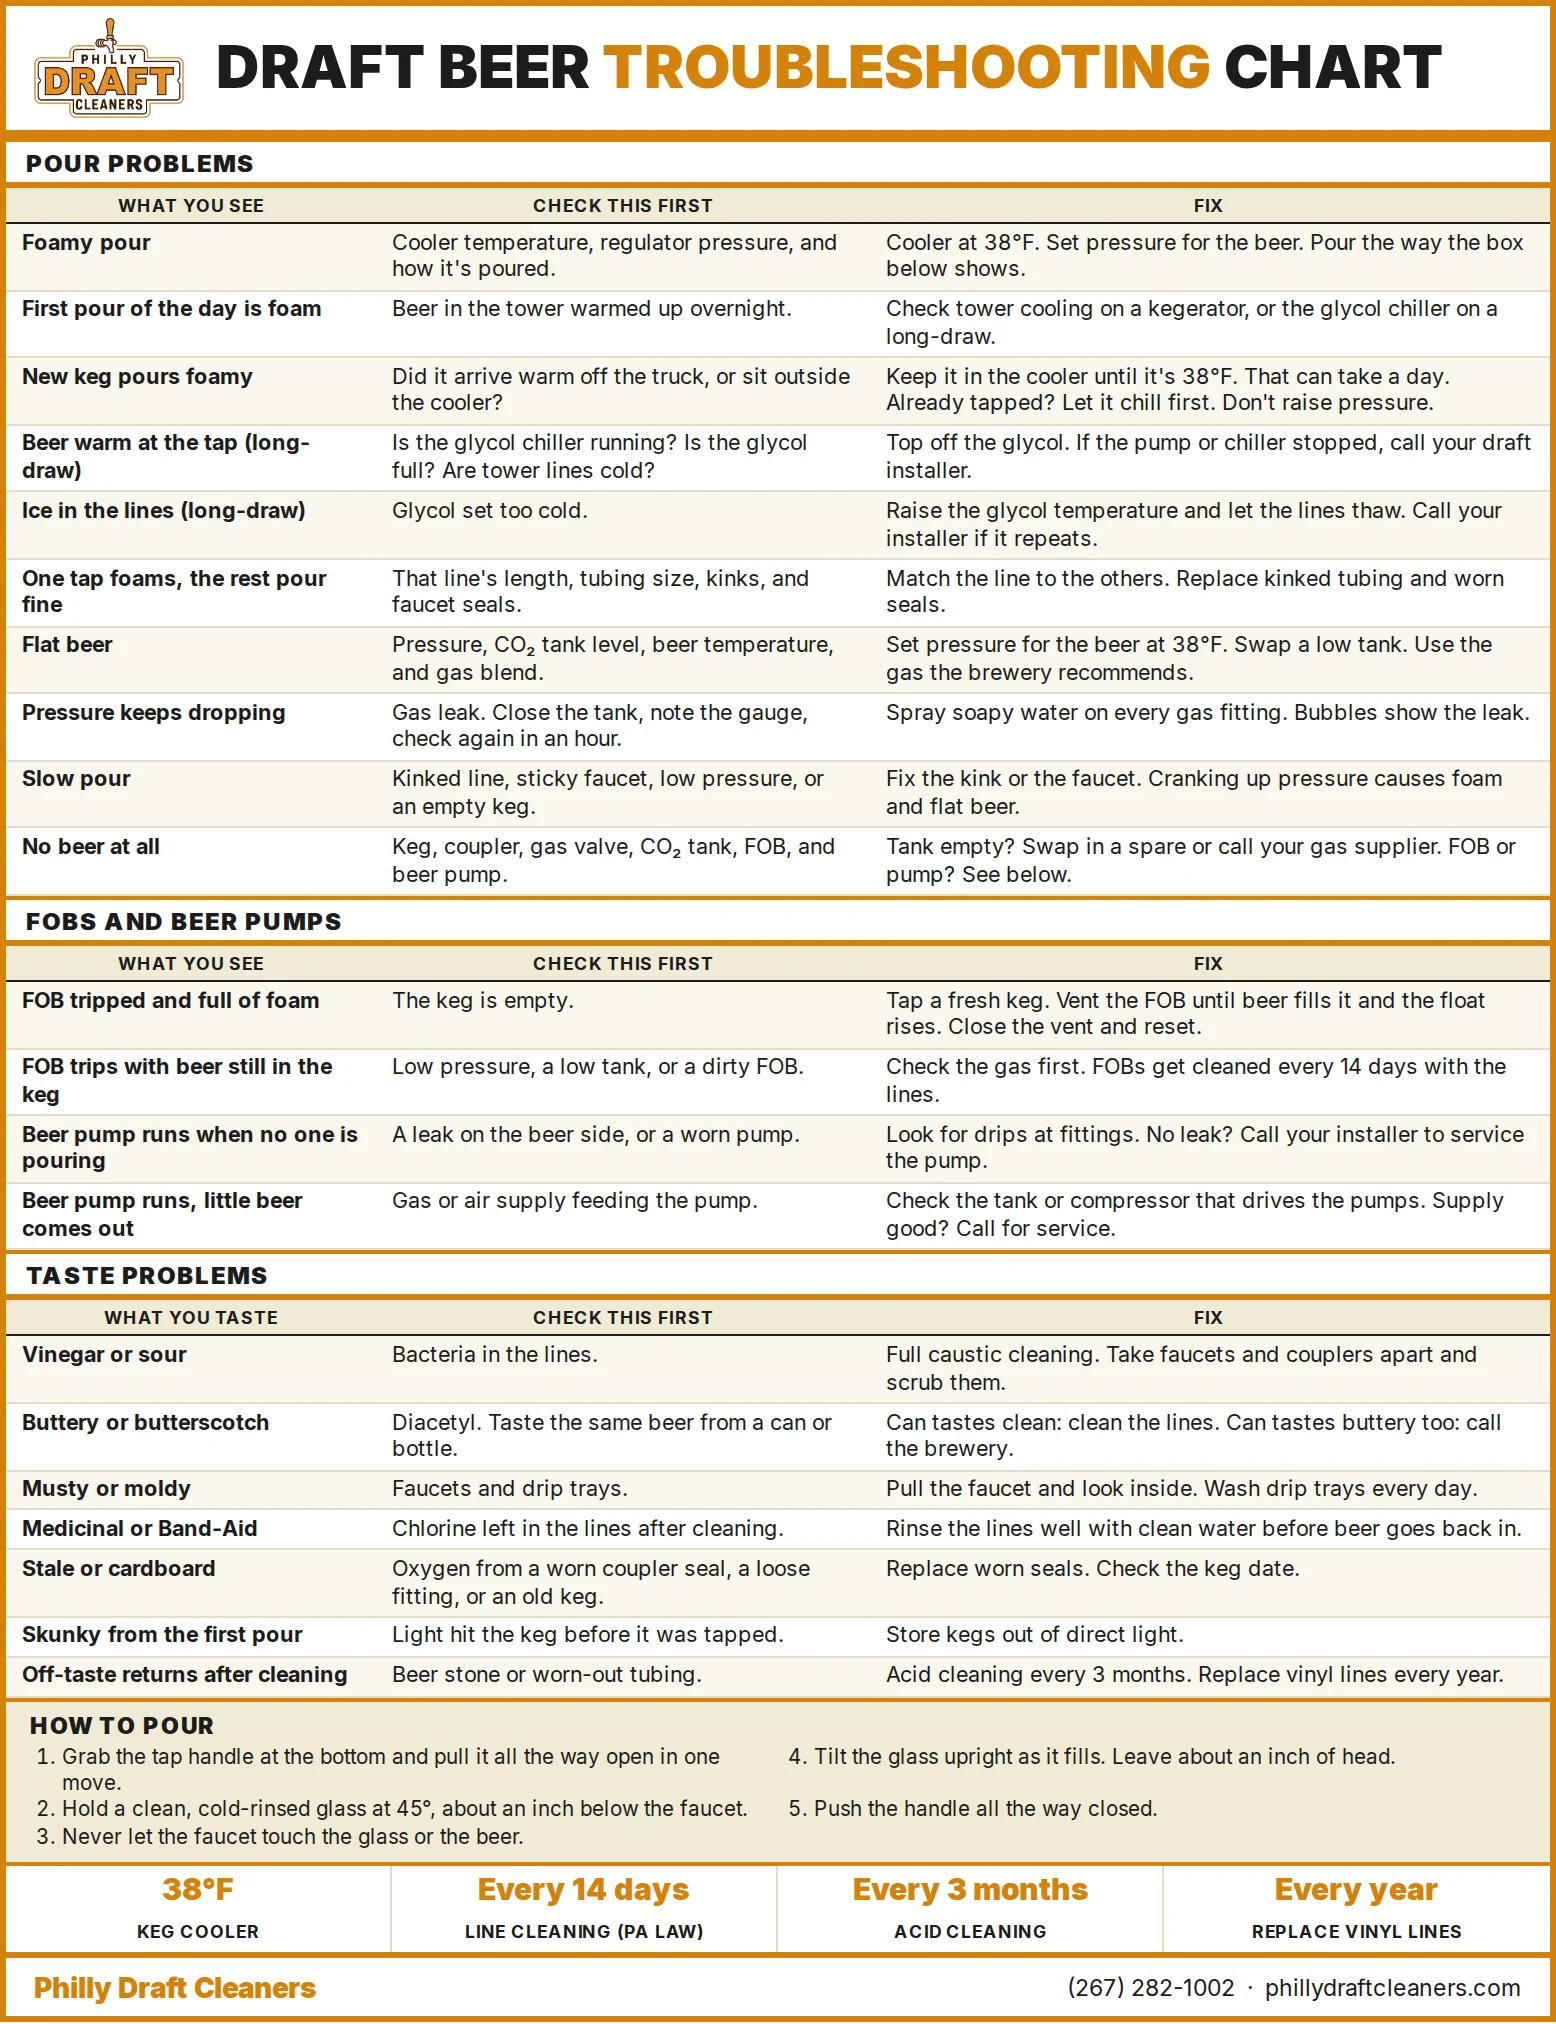
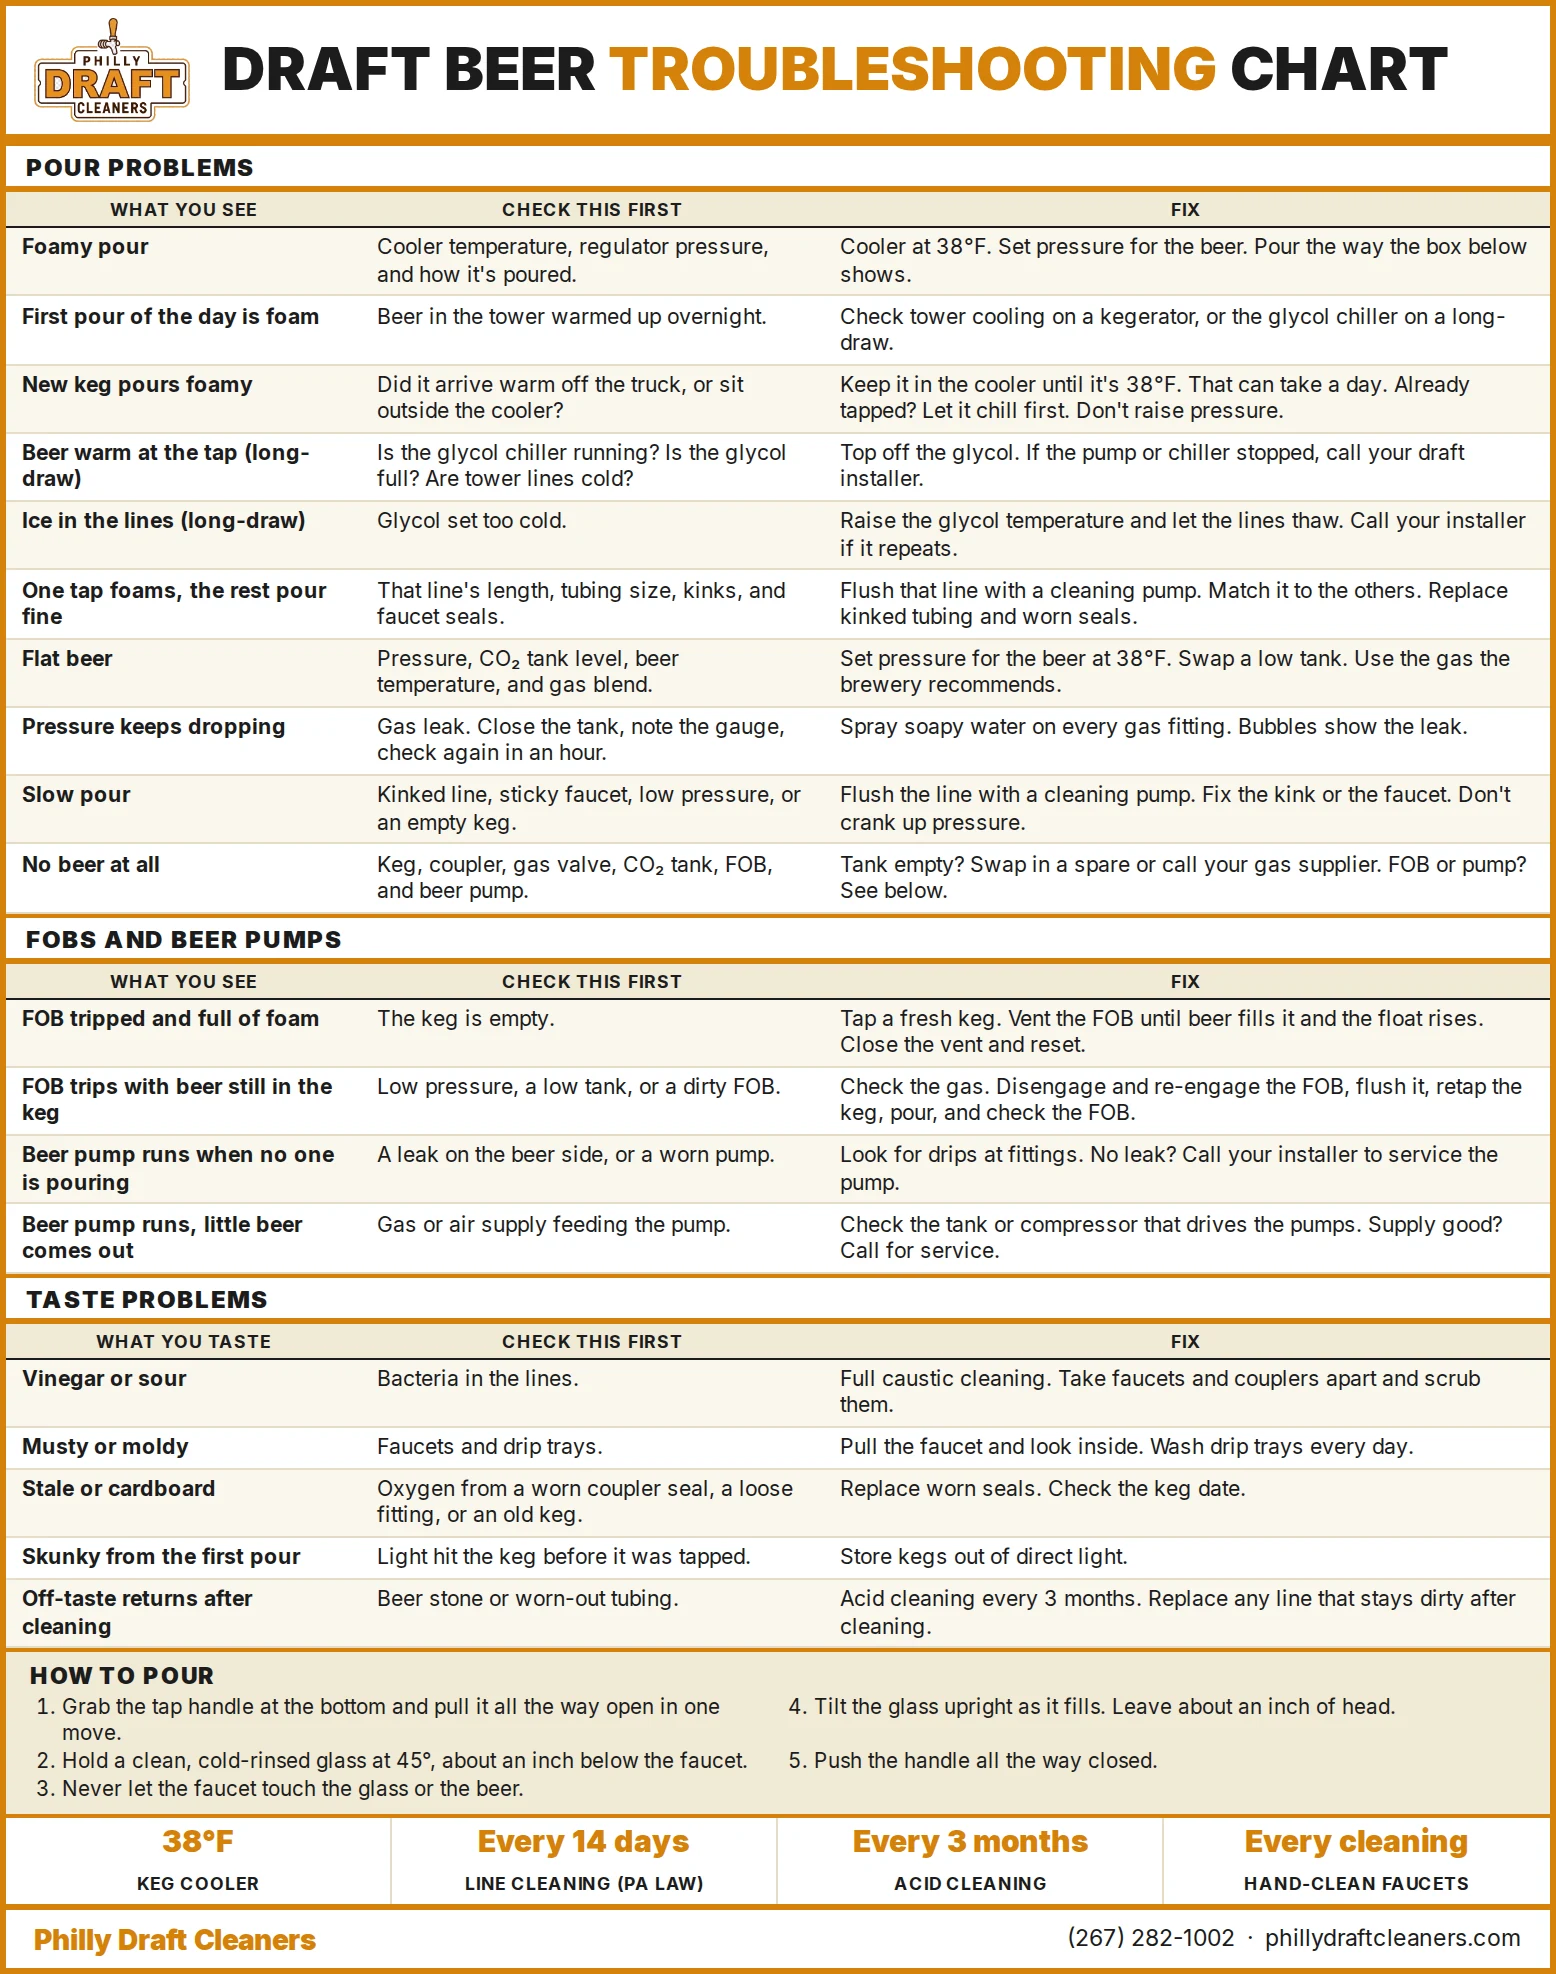
Chart fixes: line flushing, FOB reset, removed two taste rows

diff --git a/blog/draft-beer-troubleshooting-chart.html b/blog/draft-beer-troubleshooting-chart.html
@@ -14,7 +14,7 @@
 <meta property="og:site_name" content="Philly Draft Cleaners">
 <meta property="og:image" content="https://phillydraftcleaners.com/assets/images/draft-beer-troubleshooting-chart.webp">
 <meta property="og:image:width" content="1556">
-<meta property="og:image:height" content="2024">
+<meta property="og:image:height" content="1974">
 <meta property="article:published_time" content="2026-09-23">
 <meta property="article:modified_time" content="2026-09-23">
 <meta property="article:section" content="Beer Quality">
@@ -36,7 +36,7 @@
           "@type": "ImageObject",
           "url": "https://phillydraftcleaners.com/assets/images/draft-beer-troubleshooting-chart.webp",
           "width": 1556,
-          "height": 2024,
+          "height": 1974,
           "caption": "Draft beer troubleshooting chart by Philly Draft Cleaners"
         },
         "https://phillydraftcleaners.com/assets/images/og/blog-tower-16x9.jpg",
@@ -125,7 +125,7 @@
         "@type": "ImageObject",
         "url": "https://phillydraftcleaners.com/assets/images/draft-beer-troubleshooting-chart.webp",
         "width": 1556,
-        "height": 2024,
+        "height": 1974,
         "caption": "Draft beer troubleshooting chart by Philly Draft Cleaners"
       },
       "inLanguage": "en-US",
@@ -508,7 +508,7 @@
         <p><a href="https://phillydraftcleaners.com/assets/downloads/draft-beer-troubleshooting-chart.pdf" style="color:var(--amber);font-weight:600" download>Download the printable PDF</a> and hang it by your cooler or in the keg room. It prints on one letter-size page.</p>
 
         <figure style="margin:28px 0">
-          <a href="https://phillydraftcleaners.com/assets/images/draft-beer-troubleshooting-chart.webp"><img src="/assets/images/draft-beer-troubleshooting-chart.webp" alt="Draft beer troubleshooting chart listing pour problems like foamy, warm new kegs, flat, slow, warm or frozen glycol lines, and no beer, FOB and beer pump problems, taste problems like vinegar, buttery, musty, medicinal, stale, and skunky, with the cause to check and the fix for each, plus five steps for pouring a draft beer" width="1556" height="2024" style="width:100%;height:auto;border:1px solid var(--g2, #ddd)"></a>
+          <a href="https://phillydraftcleaners.com/assets/images/draft-beer-troubleshooting-chart.webp"><img src="/assets/images/draft-beer-troubleshooting-chart.webp" alt="Draft beer troubleshooting chart listing pour problems like foamy, warm new kegs, flat, slow, warm or frozen glycol lines, and no beer, FOB and beer pump problems, taste problems like vinegar, musty, stale, and skunky, with the cause to check and the fix for each, plus five steps for pouring a draft beer" width="1556" height="1974" style="width:100%;height:auto;border:1px solid var(--g2, #ddd)"></a>
           <figcaption style="font-size:14px;color:var(--g4);margin-top:8px">Draft beer troubleshooting chart by Philly Draft Cleaners. Tap the image to see it full size.</figcaption>
         </figure>
 
@@ -520,10 +520,10 @@
           <li><strong>New keg pours foamy.</strong> Check: Did it arrive warm off the truck, or sit outside the cooler? Fix: Keep it in the cooler until it&#x27;s 38°F. That can take a day. Already tapped? Let it chill first. Don&#x27;t raise pressure.</li>
           <li><strong>Beer warm at the tap (long-draw).</strong> Check: Is the glycol chiller running? Is the glycol full? Are tower lines cold? Fix: Top off the glycol. If the pump or chiller stopped, call your draft installer.</li>
           <li><strong>Ice in the lines (long-draw).</strong> Check: Glycol set too cold. Fix: Raise the glycol temperature and let the lines thaw. Call your installer if it repeats.</li>
-          <li><strong>One tap foams, the rest pour fine.</strong> Check: That line&#x27;s length, tubing size, kinks, and faucet seals. Fix: Match the line to the others. Replace kinked tubing and worn seals.</li>
+          <li><strong>One tap foams, the rest pour fine.</strong> Check: That line&#x27;s length, tubing size, kinks, and faucet seals. Fix: Flush that line with a cleaning pump. Match it to the others. Replace kinked tubing and worn seals.</li>
           <li><strong>Flat beer.</strong> Check: Pressure, CO₂ tank level, beer temperature, and gas blend. Fix: Set pressure for the beer at 38°F. Swap a low tank. Use the gas the brewery recommends.</li>
           <li><strong>Pressure keeps dropping.</strong> Check: Gas leak. Close the tank, note the gauge, check again in an hour. Fix: Spray soapy water on every gas fitting. Bubbles show the leak.</li>
-          <li><strong>Slow pour.</strong> Check: Kinked line, sticky faucet, low pressure, or an empty keg. Fix: Fix the kink or the faucet. Cranking up pressure causes foam and flat beer.</li>
+          <li><strong>Slow pour.</strong> Check: Kinked line, sticky faucet, low pressure, or an empty keg. Fix: Flush the line with a cleaning pump. Fix the kink or the faucet. Don&#x27;t crank up pressure.</li>
           <li><strong>No beer at all.</strong> Check: Keg, coupler, gas valve, CO₂ tank, FOB, and beer pump. Fix: Tank empty? Swap in a spare or call your gas supplier. FOB or pump? See below.</li>
         </ul>
 
@@ -533,7 +533,7 @@
 
         <ul>
           <li><strong>FOB tripped and full of foam.</strong> Check: The keg is empty. Fix: Tap a fresh keg. Vent the FOB until beer fills it and the float rises. Close the vent and reset.</li>
-          <li><strong>FOB trips with beer still in the keg.</strong> Check: Low pressure, a low tank, or a dirty FOB. Fix: Check the gas first. FOBs get cleaned every 14 days with the lines.</li>
+          <li><strong>FOB trips with beer still in the keg.</strong> Check: Low pressure, a low tank, or a dirty FOB. Fix: Check the gas. Disengage and re-engage the FOB, flush it, retap the keg, pour, and check the FOB.</li>
           <li><strong>Beer pump runs when no one is pouring.</strong> Check: A leak on the beer side, or a worn pump. Fix: Look for drips at fittings. No leak? Call your installer to service the pump.</li>
           <li><strong>Beer pump runs, little beer comes out.</strong> Check: Gas or air supply feeding the pump. Fix: Check the tank or compressor that drives the pumps. Supply good? Call for service.</li>
         </ul>
@@ -544,12 +544,10 @@
 
         <ul>
           <li><strong>Vinegar or sour.</strong> Check: Bacteria in the lines. Fix: Full caustic cleaning. Take faucets and couplers apart and scrub them.</li>
-          <li><strong>Buttery or butterscotch.</strong> Check: Diacetyl. Taste the same beer from a can or bottle. Fix: Can tastes clean: clean the lines. Can tastes buttery too: call the brewery.</li>
           <li><strong>Musty or moldy.</strong> Check: Faucets and drip trays. Fix: Pull the faucet and look inside. Wash drip trays every day.</li>
-          <li><strong>Medicinal or Band-Aid.</strong> Check: Chlorine left in the lines after cleaning. Fix: Rinse the lines well with clean water before beer goes back in.</li>
           <li><strong>Stale or cardboard.</strong> Check: Oxygen from a worn coupler seal, a loose fitting, or an old keg. Fix: Replace worn seals. Check the keg date.</li>
           <li><strong>Skunky from the first pour.</strong> Check: Light hit the keg before it was tapped. Fix: Store kegs out of direct light.</li>
-          <li><strong>Off-taste returns after cleaning.</strong> Check: Beer stone or worn-out tubing. Fix: Acid cleaning every 3 months. Replace vinyl lines every year.</li>
+          <li><strong>Off-taste returns after cleaning.</strong> Check: Beer stone or worn-out tubing. Fix: Acid cleaning every 3 months. Replace any line that stays dirty after cleaning.</li>
         </ul>
 
         <h2>How to Pour</h2>
@@ -570,7 +568,7 @@
           <li><strong>38°F</strong> for the keg cooler, per the <a href="https://www.brewersassociation.org/educational-publications/draught-beer-quality-manual/" target="_blank" rel="noopener">Brewers Association Draught Beer Quality Manual</a>.</li>
           <li><strong>Every 14 days</strong> for line cleaning. Pennsylvania requires it under <a href="https://www.pacodeandbulletin.gov/Display/pacode?file=/secure/pacode/data/040/chapter5/s5.51.html" target="_blank" rel="noopener">40 Pa. Code § 5.51</a>.</li>
           <li><strong>Every 3 months</strong> for an acid cleaning to remove beer stone.</li>
-          <li><strong>Every year</strong> for new vinyl lines, per the Brewers Association.</li>
+          <li><strong>Every cleaning</strong>, faucets and couplers come apart and get scrubbed by hand.</li>
         </ul>
 
         <h2>Still Stuck?</h2>

diff --git a/blog/when-to-replace-draft-beer-lines.html b/blog/when-to-replace-draft-beer-lines.html
@@ -480,7 +480,7 @@
 
         <h2>How Often</h2>
 
-        <p>The <a href="https://www.brewersassociation.org/educational-publications/draught-beer-quality-manual/" target="_blank" rel="noopener">Brewers Association Draught Beer Quality Manual</a> says to replace vinyl tubing every year. That includes jumper lines and the lines in direct-draw coolers and kegerators. Barrier trunk lines last longer and get replaced based on condition.</p>
+        <p>The <a href="https://www.brewersassociation.org/educational-publications/draught-beer-quality-manual/" target="_blank" rel="noopener">Brewers Association Draught Beer Quality Manual</a> says to replace vinyl tubing every year, including jumper lines and the lines in direct-draw coolers and kegerators. Few bars do that. In practice, vinyl gets replaced when it shows the signs below. Barrier trunk lines last longer and also get replaced based on condition.</p>
 
         <p>Faucet and coupler seals, the washers and o-rings, should be checked every time those parts come apart for cleaning. Replace any that are cracked, flat, or hard.</p>
 
